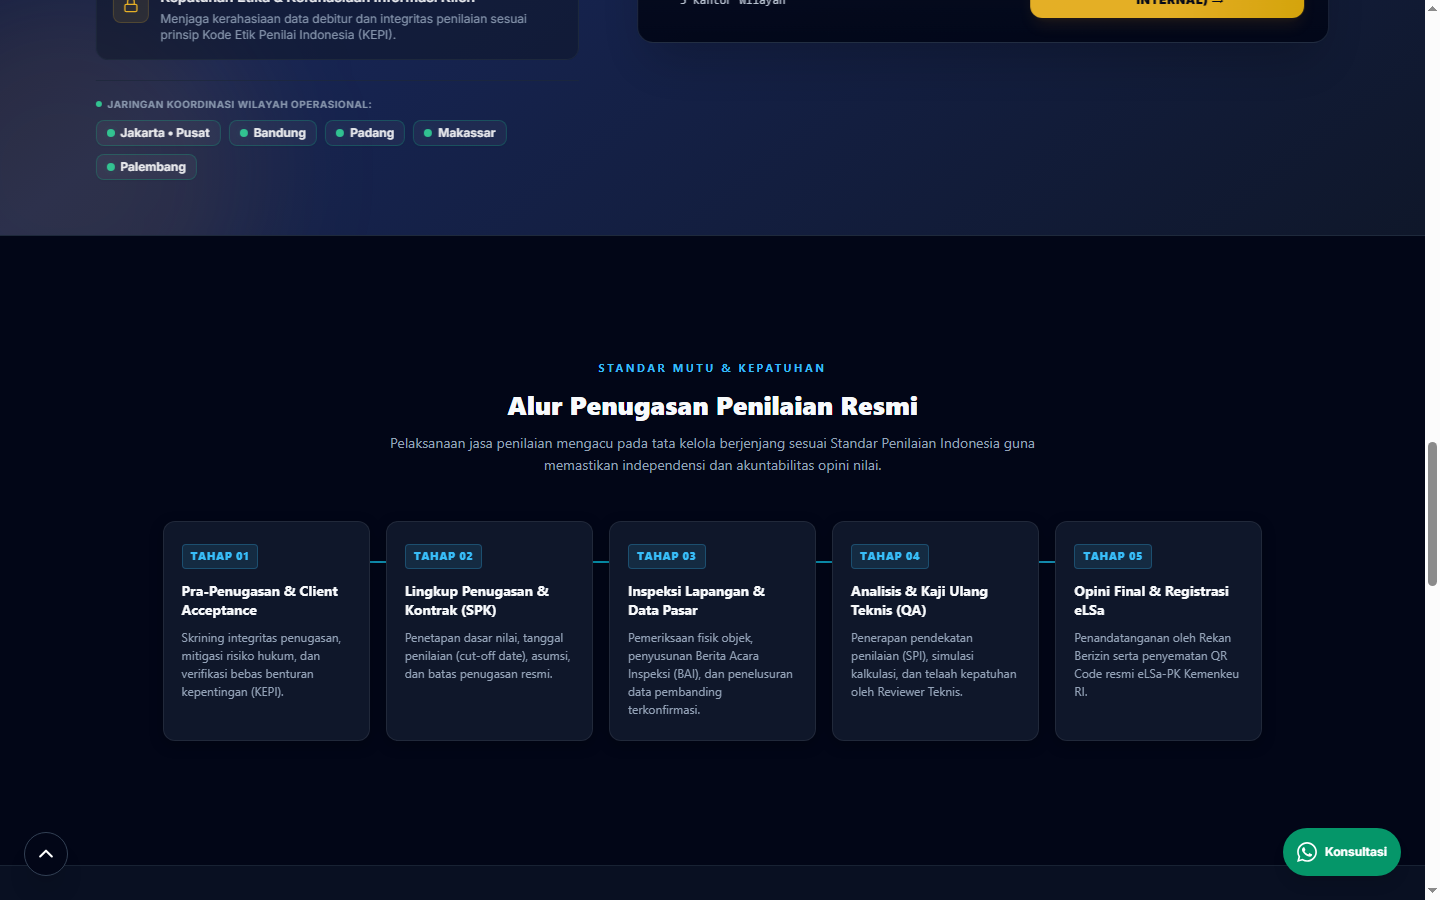
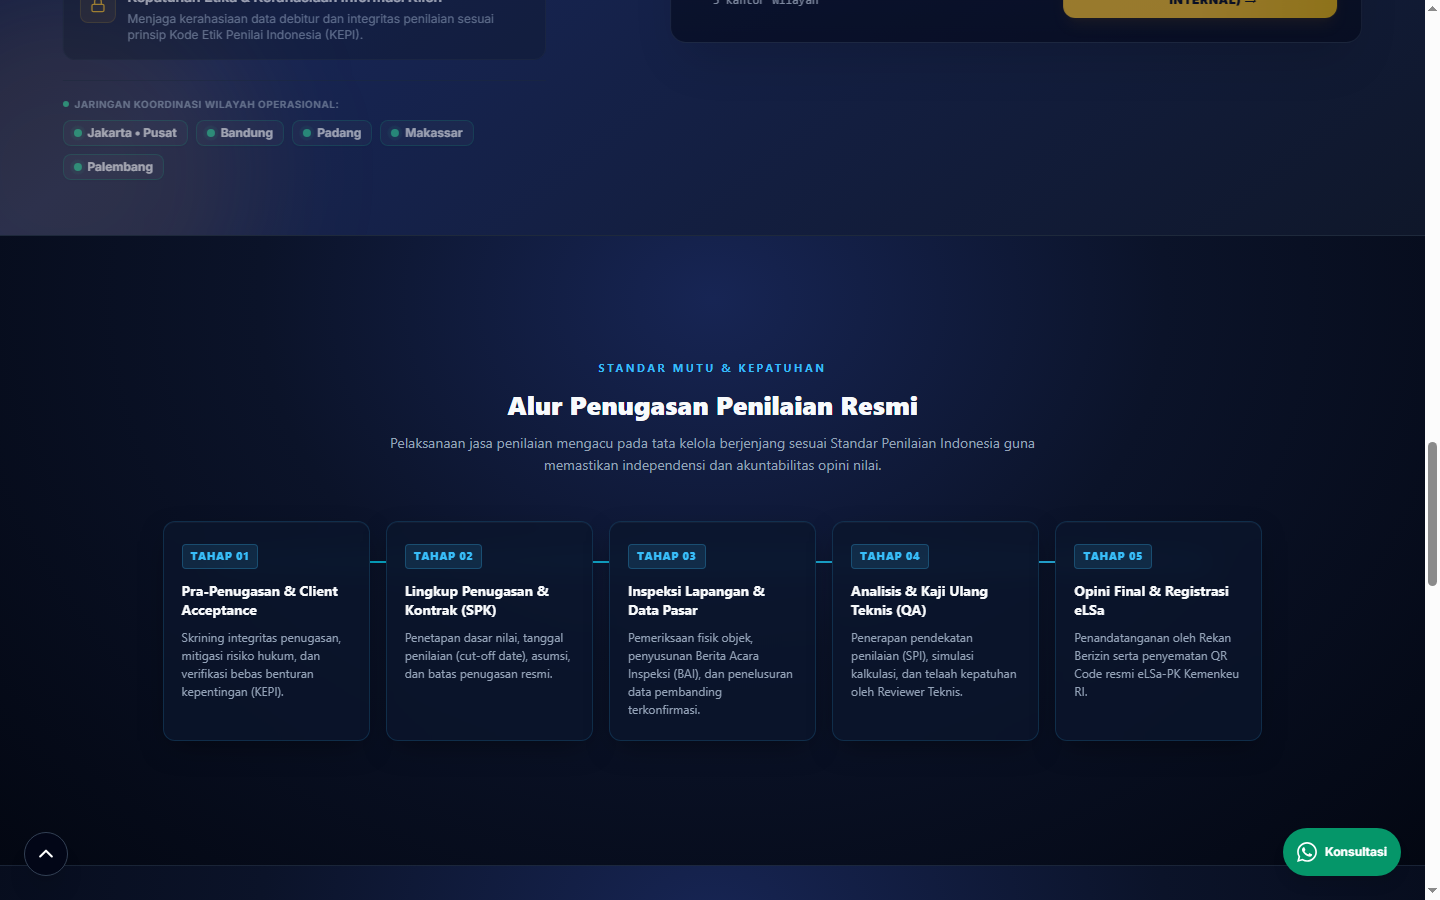
style(compro): match 3 modules with deep midnight navy ambience of OPINI NSR ecosystem

diff --git a/index.html b/index.html
@@ -3285,8 +3285,11 @@
   </section>
 
 <style>
-  /* ================= GLOBAL CORPORATE STYLING (DARK CORPORATE THEME) ================= */
-  .nsr-section { padding: 60px 20px; max-width: 1140px; margin: 0 auto; font-family: 'Segoe UI', -apple-system, BlinkMacSystemFont, Roboto, sans-serif; }
+  /* ================= GLOBAL CORPORATE STYLING (DEEP MIDNIGHT NAVY THEME) ================= */
+  .nsr-midnight-bg {
+    background: radial-gradient(ellipse at 50% 10%, #172554 0%, #0b1329 45%, #030712 100%);
+  }
+  .nsr-section { padding: 60px 20px; max-width: 1140px; margin: 0 auto; font-family: 'Segoe UI', -apple-system, BlinkMacSystemFont, Roboto, sans-serif; position: relative; z-index: 10; }
   .nsr-header-title { text-align: center; margin-bottom: 45px; }
   .nsr-tagline { font-size: 11px; text-transform: uppercase; letter-spacing: 2.5px; color: #38bdf8; font-weight: 700; margin-bottom: 8px; display: block; }
   .nsr-title { font-size: 26px; color: #f8fafc; font-weight: 800; margin: 0; }
@@ -3308,12 +3311,18 @@
   }
   .nsr-flow-grid { display: grid; grid-template-columns: repeat(5, 1fr); gap: 16px; position: relative; z-index: 1; }
   .nsr-flow-card {
-    background: #0f172a; border: 1px solid rgba(255, 255, 255, 0.08); border-radius: 12px; padding: 22px 18px;
-    box-shadow: 0 4px 14px rgba(0, 0, 0, 0.25); transition: transform 0.3s cubic-bezier(0.16, 1, 0.3, 1), box-shadow 0.3s ease, border-color 0.3s ease;
+    background: rgba(11, 21, 44, 0.75);
+    backdrop-filter: blur(12px);
+    -webkit-backdrop-filter: blur(12px);
+    border: 1px solid rgba(56, 189, 248, 0.16);
+    border-radius: 12px; padding: 22px 18px;
+    box-shadow: 0 10px 30px -10px rgba(0, 0, 0, 0.5), inset 0 1px 0 rgba(255, 255, 255, 0.04);
+    transition: transform 0.3s cubic-bezier(0.16, 1, 0.3, 1), box-shadow 0.3s ease, border-color 0.3s ease;
     position: relative; z-index: 1; display: flex; flex-direction: column;
   }
   .nsr-flow-card:hover {
-    transform: translateY(-5px); border-color: #38bdf8; box-shadow: 0 12px 28px rgba(0, 0, 0, 0.45);
+    transform: translateY(-5px); border-color: #38bdf8;
+    box-shadow: 0 14px 34px -10px rgba(14, 165, 233, 0.3), inset 0 1px 0 rgba(255, 255, 255, 0.08);
   }
   .nsr-flow-num { font-size: 11px; font-weight: 800; color: #38bdf8; background: rgba(56, 189, 248, 0.12); border: 1px solid rgba(56, 189, 248, 0.25); display: inline-block; padding: 3px 8px; border-radius: 4px; margin-bottom: 12px; width: fit-content; letter-spacing: 0.5px; }
   .nsr-flow-card h4 { font-size: 14px; font-weight: 700; color: #f8fafc; margin: 0 0 8px 0; line-height: 1.4; }
@@ -3322,37 +3331,54 @@
   /* ================= 2. KAJIAN TEKNIS SPI (CLEAN RESEARCH CARDS) ================= */
   .nsr-spi-grid { display: grid; grid-template-columns: repeat(3, 1fr); gap: 24px; }
   .nsr-spi-card {
-    background: #0f172a; border: 1px solid rgba(255, 255, 255, 0.08); border-radius: 12px; overflow: hidden;
-    box-shadow: 0 4px 16px rgba(0, 0, 0, 0.25); transition: transform 0.35s ease, box-shadow 0.35s ease, border-color 0.35s ease;
+    background: rgba(11, 21, 44, 0.75);
+    backdrop-filter: blur(12px);
+    -webkit-backdrop-filter: blur(12px);
+    border: 1px solid rgba(56, 189, 248, 0.16);
+    border-radius: 12px; overflow: hidden;
+    box-shadow: 0 10px 30px -10px rgba(0, 0, 0, 0.5), inset 0 1px 0 rgba(255, 255, 255, 0.04);
+    transition: transform 0.35s ease, box-shadow 0.35s ease, border-color 0.35s ease;
     display: flex; flex-direction: column; cursor: pointer; text-align: left;
   }
-  .nsr-spi-card:hover { transform: translateY(-4px) scale(1.01); box-shadow: 0 16px 32px rgba(0, 0, 0, 0.45); border-color: rgba(56, 189, 248, 0.4); }
+  .nsr-spi-card:hover {
+    transform: translateY(-4px) scale(1.01);
+    box-shadow: 0 16px 36px -10px rgba(14, 165, 233, 0.3);
+    border-color: rgba(56, 189, 248, 0.4);
+  }
   .nsr-spi-body { padding: 24px; flex-grow: 1; display: flex; flex-direction: column; }
   .nsr-spi-badge { font-size: 10.5px; font-weight: 700; color: #2dd4bf; background: rgba(45, 212, 191, 0.12); border: 1px solid rgba(45, 212, 191, 0.25); padding: 3px 8px; border-radius: 4px; width: fit-content; margin-bottom: 12px; letter-spacing: 0.5px; }
   .nsr-spi-card h4 { font-size: 16px; font-weight: 700; color: #f8fafc; margin: 0 0 10px 0; line-height: 1.4; transition: color 0.2s ease, transform 0.2s ease; }
   .nsr-spi-card:hover h4 { color: #38bdf8; transform: translateX(2px); }
   .nsr-spi-card p { font-size: 13px; color: #94a3b8; line-height: 1.6; margin: 0; flex-grow: 1; }
-  .nsr-spi-foot { padding: 14px 24px; background: #0b1120; border-top: 1px solid rgba(255, 255, 255, 0.08); font-size: 12px; font-weight: 600; color: #38bdf8; display: flex; justify-content: space-between; align-items: center; }
+  .nsr-spi-foot { padding: 14px 24px; background: rgba(7, 13, 27, 0.85); border-top: 1px solid rgba(56, 189, 248, 0.15); font-size: 12px; font-weight: 600; color: #38bdf8; display: flex; justify-content: space-between; align-items: center; }
   .nsr-spi-foot span.arrow { transition: transform 0.2s ease; display: inline-block; }
   .nsr-spi-card:hover .nsr-spi-foot span.arrow { transform: translateX(4px); }
 
   /* ================= 3. REGULASI RESMI (COMPACT TABS MATRIX) ================= */
-  .nsr-reg-matrix { background: #0f172a; border: 1px solid rgba(255, 255, 255, 0.08); border-radius: 12px; box-shadow: 0 4px 20px rgba(0, 0, 0, 0.25); overflow: hidden; }
-  .nsr-reg-nav { display: flex; border-bottom: 1px solid rgba(255, 255, 255, 0.08); background: #0b1120; }
+  .nsr-reg-matrix {
+    background: rgba(11, 21, 44, 0.75);
+    backdrop-filter: blur(12px);
+    -webkit-backdrop-filter: blur(12px);
+    border: 1px solid rgba(56, 189, 248, 0.16);
+    border-radius: 12px;
+    box-shadow: 0 10px 30px -10px rgba(0, 0, 0, 0.5), inset 0 1px 0 rgba(255, 255, 255, 0.04);
+    overflow: hidden;
+  }
+  .nsr-reg-nav { display: flex; border-bottom: 1px solid rgba(56, 189, 248, 0.15); background: rgba(7, 13, 27, 0.85); }
   .nsr-reg-btn {
     flex: 1; padding: 16px; font-size: 13px; font-weight: 700; color: #94a3b8; border: none; background: none; cursor: pointer;
     transition: all 0.2s ease; border-bottom: 2px solid transparent; text-align: center;
   }
   .nsr-reg-btn:hover { color: #f8fafc; background: rgba(255, 255, 255, 0.04); }
-  .nsr-reg-btn.active { color: #38bdf8; background: #0f172a; border-bottom: 2px solid #38bdf8; }
-  .nsr-reg-content { padding: 30px; background: #0f172a; }
+  .nsr-reg-btn.active { color: #38bdf8; background: rgba(15, 23, 42, 0.6); border-bottom: 2px solid #38bdf8; }
+  .nsr-reg-content { padding: 30px; background: rgba(11, 21, 44, 0.75); }
   .nsr-reg-panel { display: none; animation: nsrFadeIn 0.2s cubic-bezier(0.16, 1, 0.3, 1) forwards; }
   .nsr-reg-panel.active { display: block; }
   @keyframes nsrFadeIn {
     from { opacity: 0; transform: translateY(4px); }
     to { opacity: 1; transform: translateY(0); }
   }
-  .nsr-reg-item { display: flex; justify-content: space-between; align-items: center; padding: 16px 0; border-bottom: 1px solid rgba(255, 255, 255, 0.06); gap: 16px; }
+  .nsr-reg-item { display: flex; justify-content: space-between; align-items: center; padding: 16px 0; border-bottom: 1px solid rgba(255, 255, 255, 0.05); gap: 16px; }
   .nsr-reg-item:last-child { border-bottom: none; }
   .nsr-reg-title { font-size: 13.5px; font-weight: 700; color: #f8fafc; }
   .nsr-reg-meta { font-size: 12px; color: #94a3b8; margin-top: 3px; line-height: 1.5; }
@@ -3376,7 +3402,7 @@
 </style>
 
 <!-- ==================== 1. ALUR PENUGASAN PENILAIAN RESMI (INTERACTIVE LINEAR PROCESS TRACK) ==================== -->
-<section id="alur-penugasan-sop" aria-label="Standard Operating Procedure Alur Penugasan Penilaian Resmi" class="py-14 sm:py-16 bg-slate-950 text-white border-b border-slate-800/80 relative overflow-hidden scroll-mt-20">
+<section id="alur-penugasan-sop" aria-label="Standard Operating Procedure Alur Penugasan Penilaian Resmi" class="py-14 sm:py-16 text-white border-b border-slate-800/80 relative overflow-hidden scroll-mt-20 nsr-midnight-bg">
   <div class="nsr-section">
     <div class="nsr-header-title">
       <span class="nsr-tagline">Standar Mutu &amp; Kepatuhan</span>
@@ -3425,8 +3451,8 @@
 </section>
 
 <!-- ==================== 2. KAJIAN TEKNIS SPI (EXECUTIVE RESEARCH CARDS) ==================== -->
-<section id="litbang-metodologi" aria-label="Litbang KJPP NSR: Kajian Teknis & Warta Metodologi SPI" class="py-14 sm:py-16 bg-slate-900/60 text-white relative border-b border-slate-800/80 scroll-mt-20">
-  <div class="nsr-section" style="background-color: rgba(15, 23, 42, 0.6); border-radius: 16px; border: 1px solid rgba(255, 255, 255, 0.08); padding: 40px 24px;">
+<section id="litbang-metodologi" aria-label="Litbang KJPP NSR: Kajian Teknis & Warta Metodologi SPI" class="py-14 sm:py-16 text-white relative border-b border-slate-800/80 scroll-mt-20 nsr-midnight-bg">
+  <div class="nsr-section" style="background-color: rgba(11, 21, 44, 0.4); border-radius: 16px; border: 1px solid rgba(56, 189, 248, 0.16); padding: 40px 24px;">
     <div class="nsr-header-title">
       <span class="nsr-tagline">Wawasan &amp; Kompetensi Teknis</span>
       <h3 class="nsr-title">Kajian Teknis &amp; Warta Metodologi SPI</h3>
@@ -3477,7 +3503,7 @@
 </section>
 
 <!-- ==================== 3. REGULASI RESMI & DASAR HUKUM (TABBED MATRIX 4 PILAR REGULATOR) ==================== -->
-<section id="dasar-hukum" data-alias="regulasi" class="py-14 sm:py-16 bg-slate-950 text-white border-b border-slate-800/80 scroll-mt-20">
+<section id="dasar-hukum" data-alias="regulasi" class="py-14 sm:py-16 text-white border-b border-slate-800/80 scroll-mt-20 nsr-midnight-bg">
   <div class="nsr-section">
     <div class="nsr-header-title">
       <span class="nsr-tagline">Landasan Hukum &amp; Kepatuhan</span>
